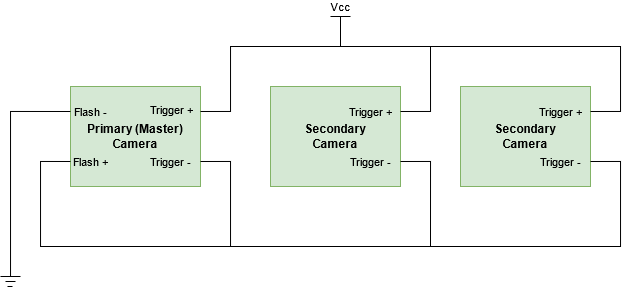
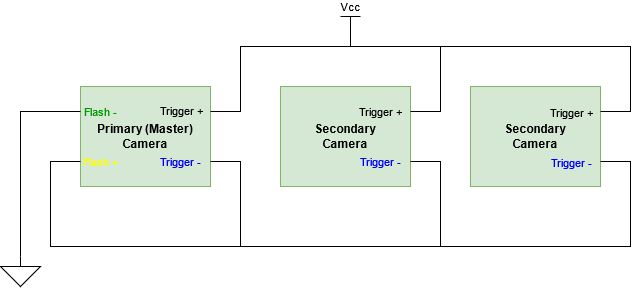
Improved external trigger stream messages and docs

diff --git a/src/peak_cam.cpp b/src/peak_cam.cpp
@@ -204,15 +204,15 @@ void Peak_Cam::setDeviceParameters()
         //Set DeviceLinkThroughputLimit Parameter
         m_nodeMapRemoteDevice->FindNode<peak::core::nodes::IntegerNode>("DeviceLinkThroughputLimit")->SetValue(peak_params.DeviceLinkThroughputLimit);
         float linkRate = m_nodeMapRemoteDevice->FindNode<peak::core::nodes::FloatNode>("DeviceLinkAcquisitionFrameRateLimit")->Value();
+        ROS_INFO_STREAM("[PEAK_CAM]: DeviceLinkThroughputLimit is set to " << peak_params.DeviceLinkThroughputLimit << " Bps allowing for " << linkRate << " Hz");
         
         //Configure Trigger and set AcquisitionFrameRate Parameter
         if (peak_params.TriggerSource == "Off")
         {
             m_nodeMapRemoteDevice->FindNode<peak::core::nodes::FloatNode>("AcquisitionFrameRate")->SetValue(peak_params.AcquisitionFrameRate);
+            ROS_INFO_STREAM("[PEAK_CAM]: AcquisitionFrameRate is set to " << peak_params.AcquisitionFrameRate << " Hz");
             if(linkRate < peak_params.AcquisitionFrameRate){
-                ROS_INFO_STREAM("[PEAK_CAM]: AcquisitionFrameRate is set to " << peak_params.AcquisitionFrameRate << " Hz (" << linkRate << " Hz possible at DeviceLinkThroughputLimit " << peak_params.DeviceLinkThroughputLimit << " Bps)");
-            } else {
-                ROS_WARN_STREAM("[PEAK_CAM]: AcquisitionFrameRate of " << peak_params.AcquisitionFrameRate << " Hz is higher than " << linkRate << " Hz possible at DeviceLinkThroughputLimit " << peak_params.DeviceLinkThroughputLimit << " Bps! Expect latency and buffer overflows!");
+                ROS_ERROR_STREAM("[PEAK_CAM]: AcquisitionFrameRate is higher than DeviceLinkAcquisitionFrameRateLimit! Expect latency and buffer overflows!");
             }
             
         } else {
@@ -221,7 +221,8 @@ void Peak_Cam::setDeviceParameters()
             m_nodeMapRemoteDevice->FindNode<peak::core::nodes::EnumerationNode>("TriggerActivation")->SetCurrentEntry(peak_params.TriggerActivation);
             m_nodeMapRemoteDevice->FindNode<peak::core::nodes::IntegerNode>("TriggerDivider")->SetValue(peak_params.TriggerDivider);
             m_nodeMapRemoteDevice->FindNode<peak::core::nodes::EnumerationNode>("TriggerSource")->SetCurrentEntry(peak_params.TriggerSource);
-            ROS_INFO_STREAM("[PEAK_CAM]: No AcquisitionFrameRate is set, camera is expected to be externally triggered by " << peak_params.TriggerSource << " (make sure rate stays below " << linkRate << "Hz with DeviceLinkThroughputLimit" << peak_params.DeviceLinkThroughputLimit << " Bps)");
+            ROS_INFO_STREAM("[PEAK_CAM]: No AcquisitionFrameRate is set, camera is expected to be externally triggered by " << peak_params.TriggerSource);
+            ROS_WARN_STREAM("[PEAK_CAM]: Make sure trigger rate stays below " << linkRate << "Hz to avoid latency and buffer overflows!");
         }
 
         //Set Line1 (flash output) signal source

diff --git a/README.md b/README.md
@@ -35,11 +35,11 @@ For multiple cameras, create a `.launch` and a `.yaml` file for each camera.
 
 > Hint: Sometimes the cameras are only accesible as root. Try ` sudo -s` in your terminal and launch the node again.
 
-### Triggering and stereo vision
+### Triggering for stereo vision
 To synchronously acquire images from two cameras in a stereo vision setup, you might want to let one camera trigger the other. 
 
-1. Setup the GPIO wiring [as proposed by IDS](https://en.ids-imaging.com/application-notes-details/app-note-synchronizing-image-acquisition.html) according to the pin layout found in your camera's datasheet:
-![Flash output trigger wiring](docs/wiring-flash-output-trigger-input.png)
+1. Setup the GPIO wiring [as proposed by IDS](https://en.ids-imaging.com/application-notes-details/app-note-synchronizing-image-acquisition.html) according to the pin layout found in your camera's datasheet (example color coding for GV-5270FA):
+    ![Flash output trigger wiring](docs/wiring-flash-output-trigger-input.png)
 
 1. Configure the primary (master) camera's `.yaml` file with
     ```
@@ -47,6 +47,20 @@ To synchronously acquire images from two cameras in a stereo vision setup, you m
     TriggerSource: "Off"
     ```
     and the secondary camera's `.yaml` with
+    ```
+    Line1Source: "Off"
+    TriggerSource: "Line0"
+    ```
+
+### Trigger using external pulses
+The cameras can also be triggered by the pulses of external devices such as a lidar sensor.
+
+1. (Activate the trigger output of your external device, e.g., using the `multipurpose_io_mode` flag for Ouster lidars as discussed in [section 5.2.2 of their software user manual](https://data.ouster.io/downloads/software-user-manual/software-user-manual-v2.1.0.pdf#35))
+1. Setup the GPIO wiring in compliance to your hardware, e.g., with an optoisolated open collector circuit:
+    
+    ![External trigger wiring](docs/wiring-external-trigger.png)
+
+1. Configure your camera's `.yaml` files with
     ```
     Line1Source: "Off"
     TriggerSource: "Line0"
